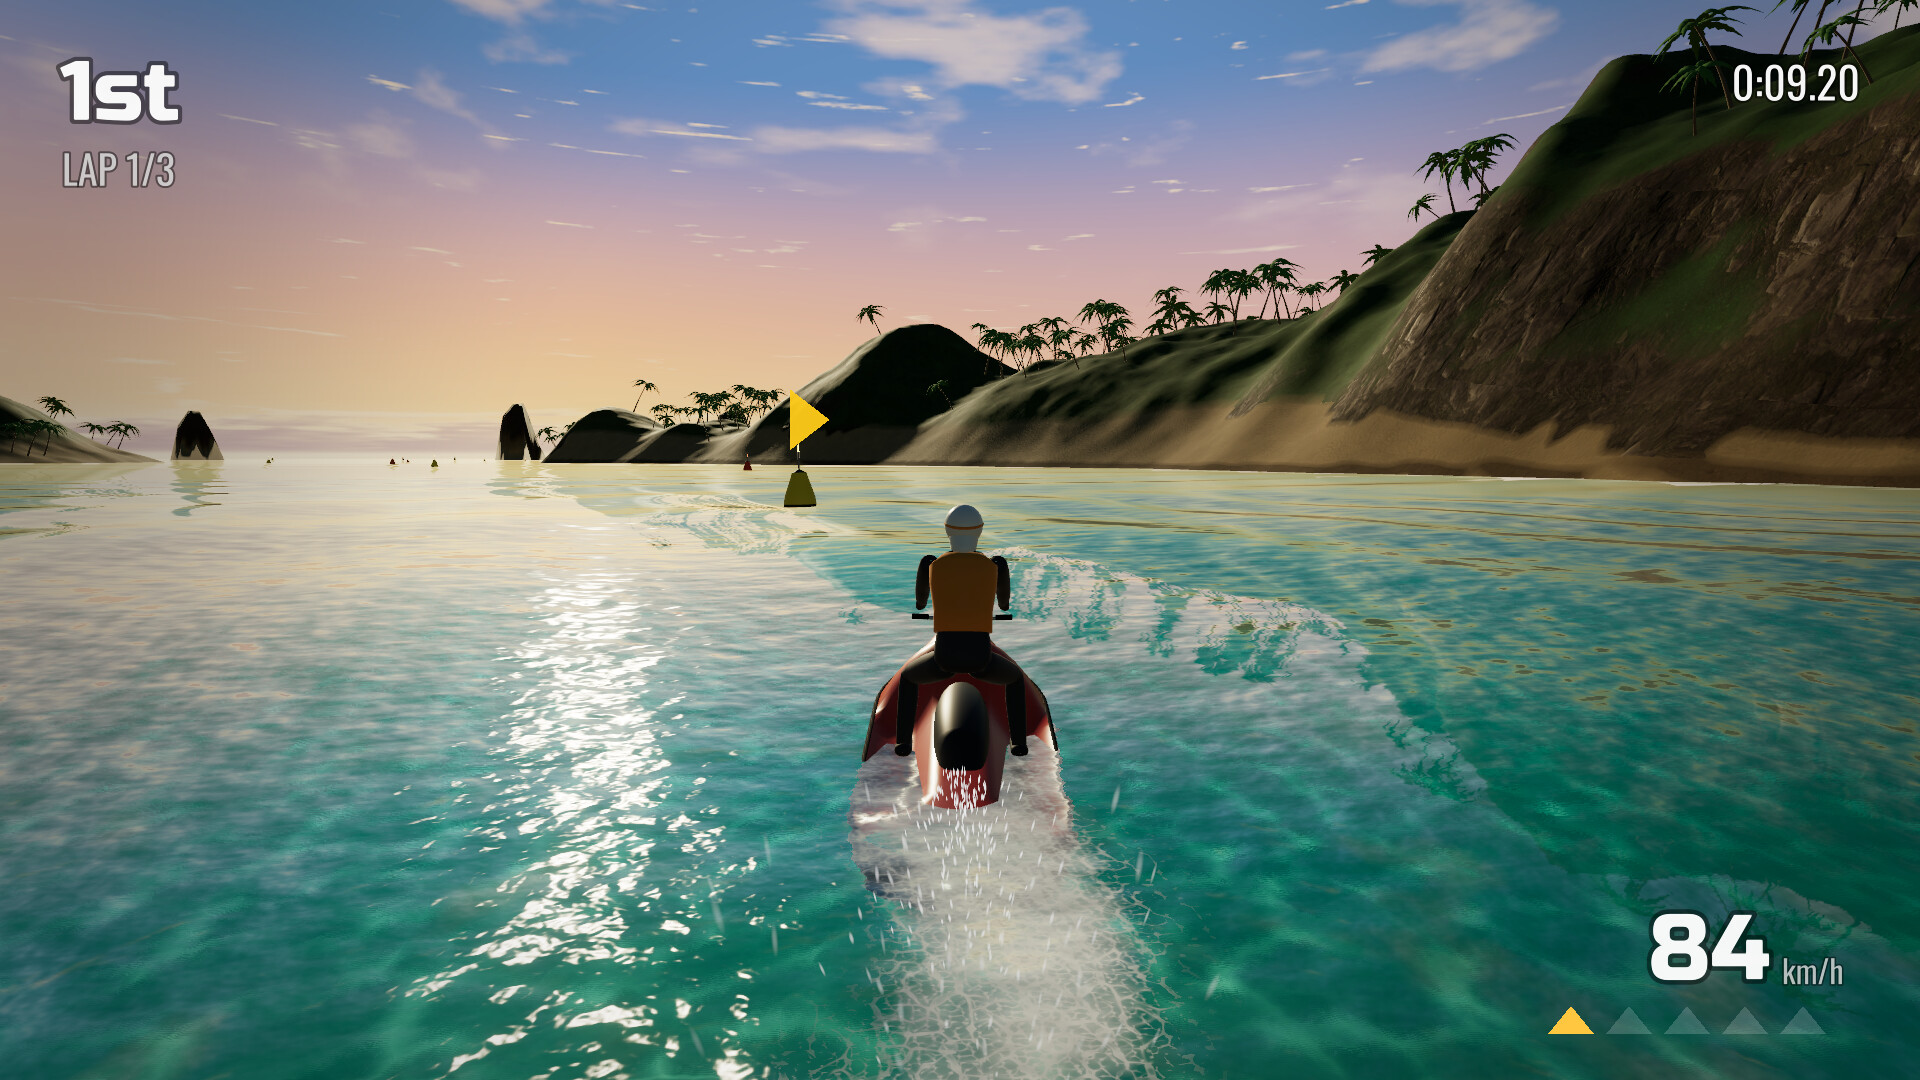
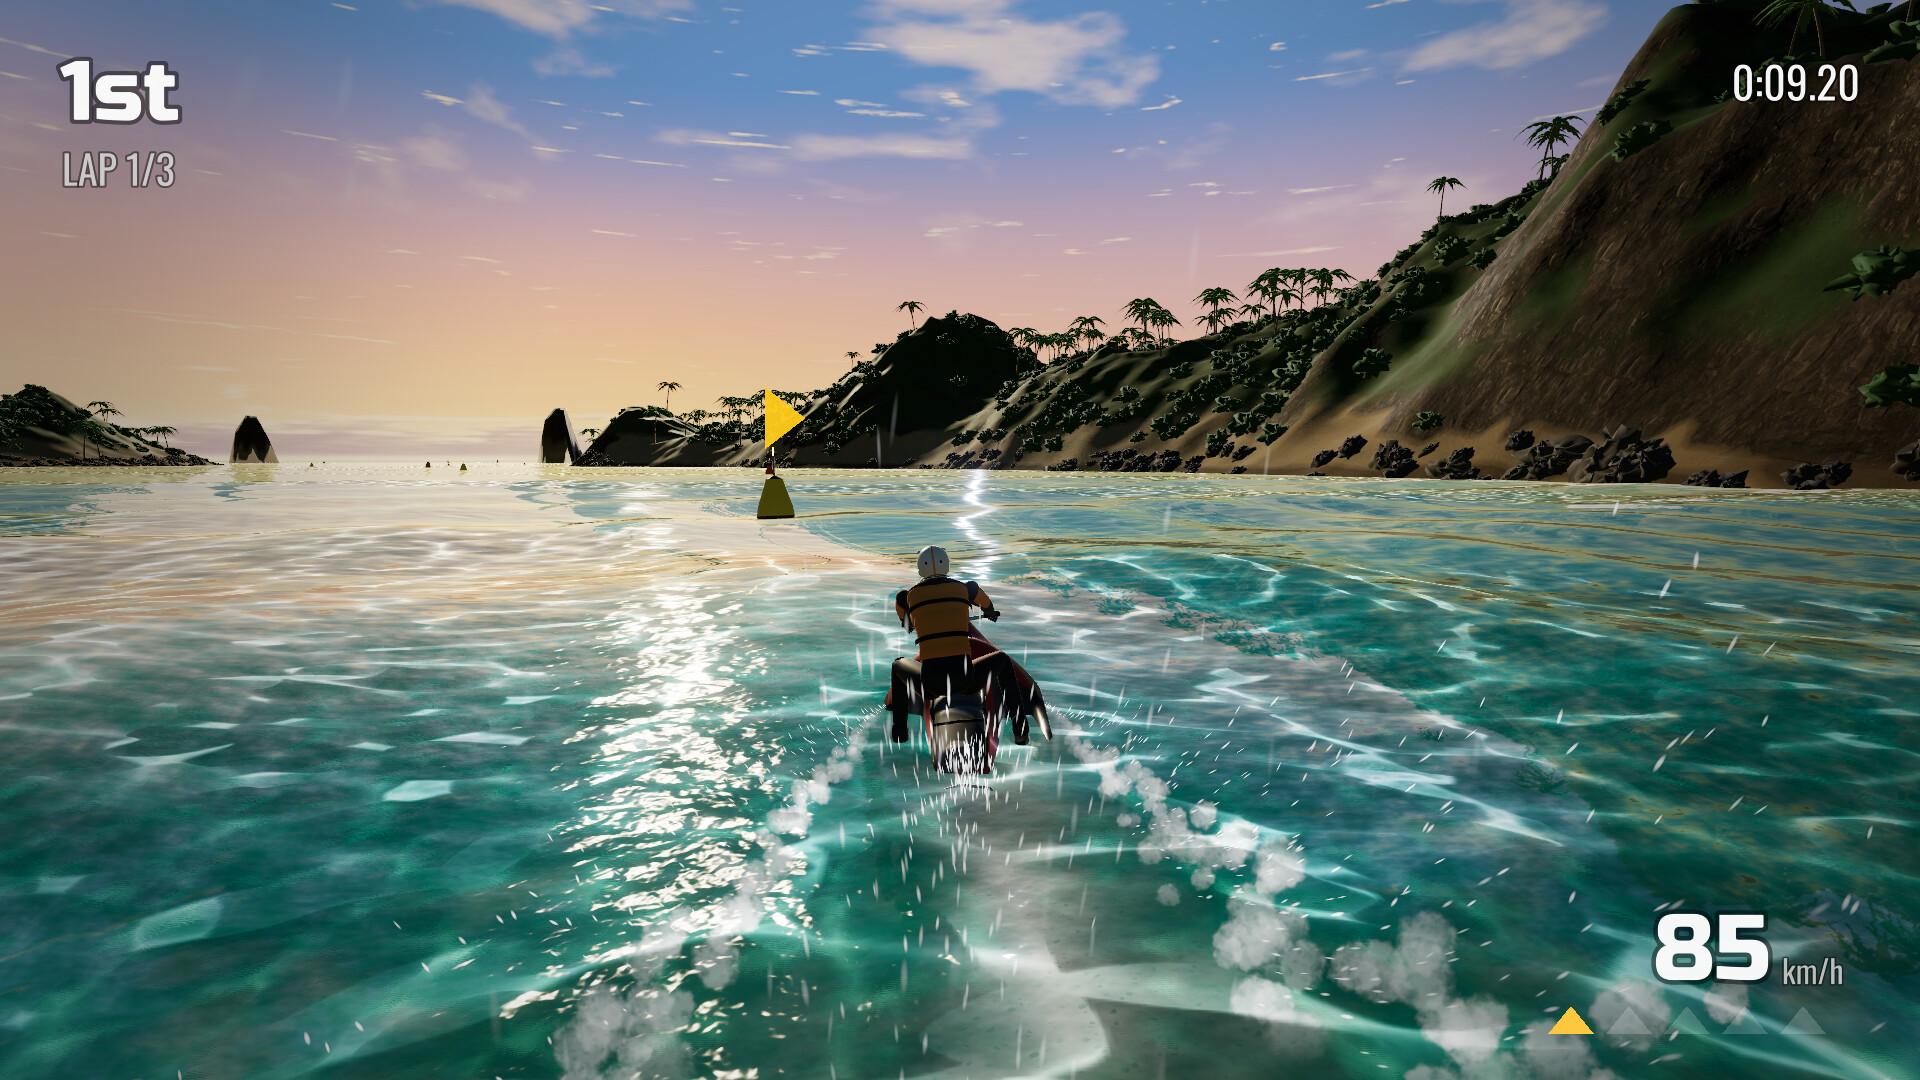
jetski: hulls out of the refraction, which drew a ghost slab behind every craft; a hull bottom that does not shine; refreshed screenshot

diff --git a/games/jetski/src/fx.c b/games/jetski/src/fx.c
@@ -153,13 +153,13 @@ void fx_tick(float dt) {
         for (int t = 0; t < 3; t++) {
           h = h * 747796405u + 2891336453u;
           float back = 1.2f + (float)(h >> 24) / 255.0f * 5.0f, lat = ((float)((h >> 16) & 255) / 255.0f - 0.5f) * (0.6f + back * 0.24f);
-          cw_water_splash(G.water, c->x - sy * back + cy * lat, c->z - cy * back - sy * lat, 0.42f, 0.05f * k, 0.28f + 0.3f * k);
+          cw_water_splash(G.water, c->x - sy * back + cy * lat, c->z - cy * back - sy * lat, 0.42f, 0.05f * k, 0.1f + 0.14f * k);
         }
       }
       float rx = cy, rz = -sy;
-      cw_water_wake(G.water, c->x - sy * 1.3f, c->z - cy * 1.3f, c->vx, c->vz, 0.42f, 0.045f + 0.03f * k, 0.3f + 0.25f * k);
-      cw_water_wake(G.water, c->x + rx * 0.6f + sy * 0.3f, c->z + rz * 0.6f + cy * 0.3f, c->vx, c->vz, 0.28f, 0.03f * k, 0.4f * k);
-      cw_water_wake(G.water, c->x - rx * 0.6f + sy * 0.3f, c->z - rz * 0.6f + cy * 0.3f, c->vx, c->vz, 0.28f, 0.03f * k, 0.4f * k);
+      cw_water_wake(G.water, c->x - sy * 1.3f, c->z - cy * 1.3f, c->vx, c->vz, 0.5f, 0.045f + 0.03f * k, 0.2f + 0.22f * k);
+      cw_water_wake(G.water, c->x + rx * 0.6f + sy * 0.3f, c->z + rz * 0.6f + cy * 0.3f, c->vx, c->vz, 0.3f, 0.03f * k, 0.26f * k);
+      cw_water_wake(G.water, c->x - rx * 0.6f + sy * 0.3f, c->z - rz * 0.6f + cy * 0.3f, c->vx, c->vz, 0.3f, 0.03f * k, 0.26f * k);
     }
     if (c->big_splash) {
       t3_vec3 at = { c->x, c->surf + 0.1f, c->z };

diff --git a/games/jetski/src/view.c b/games/jetski/src/view.c
@@ -271,6 +271,7 @@ void view_init(void) {
     paint(co, i);
     shadows(co);
     craft_n[i] = model_node(root, name, co);
+    cw_water_refraction_hide(G.water, craft_n[i]);
     bars_o[i] = t3_object_get_by_name(co, "Bars");
     snprintf(name, sizeof name, "Rider%d", i);
     rider_n[i] = cw_node_new("Node3D", name);
